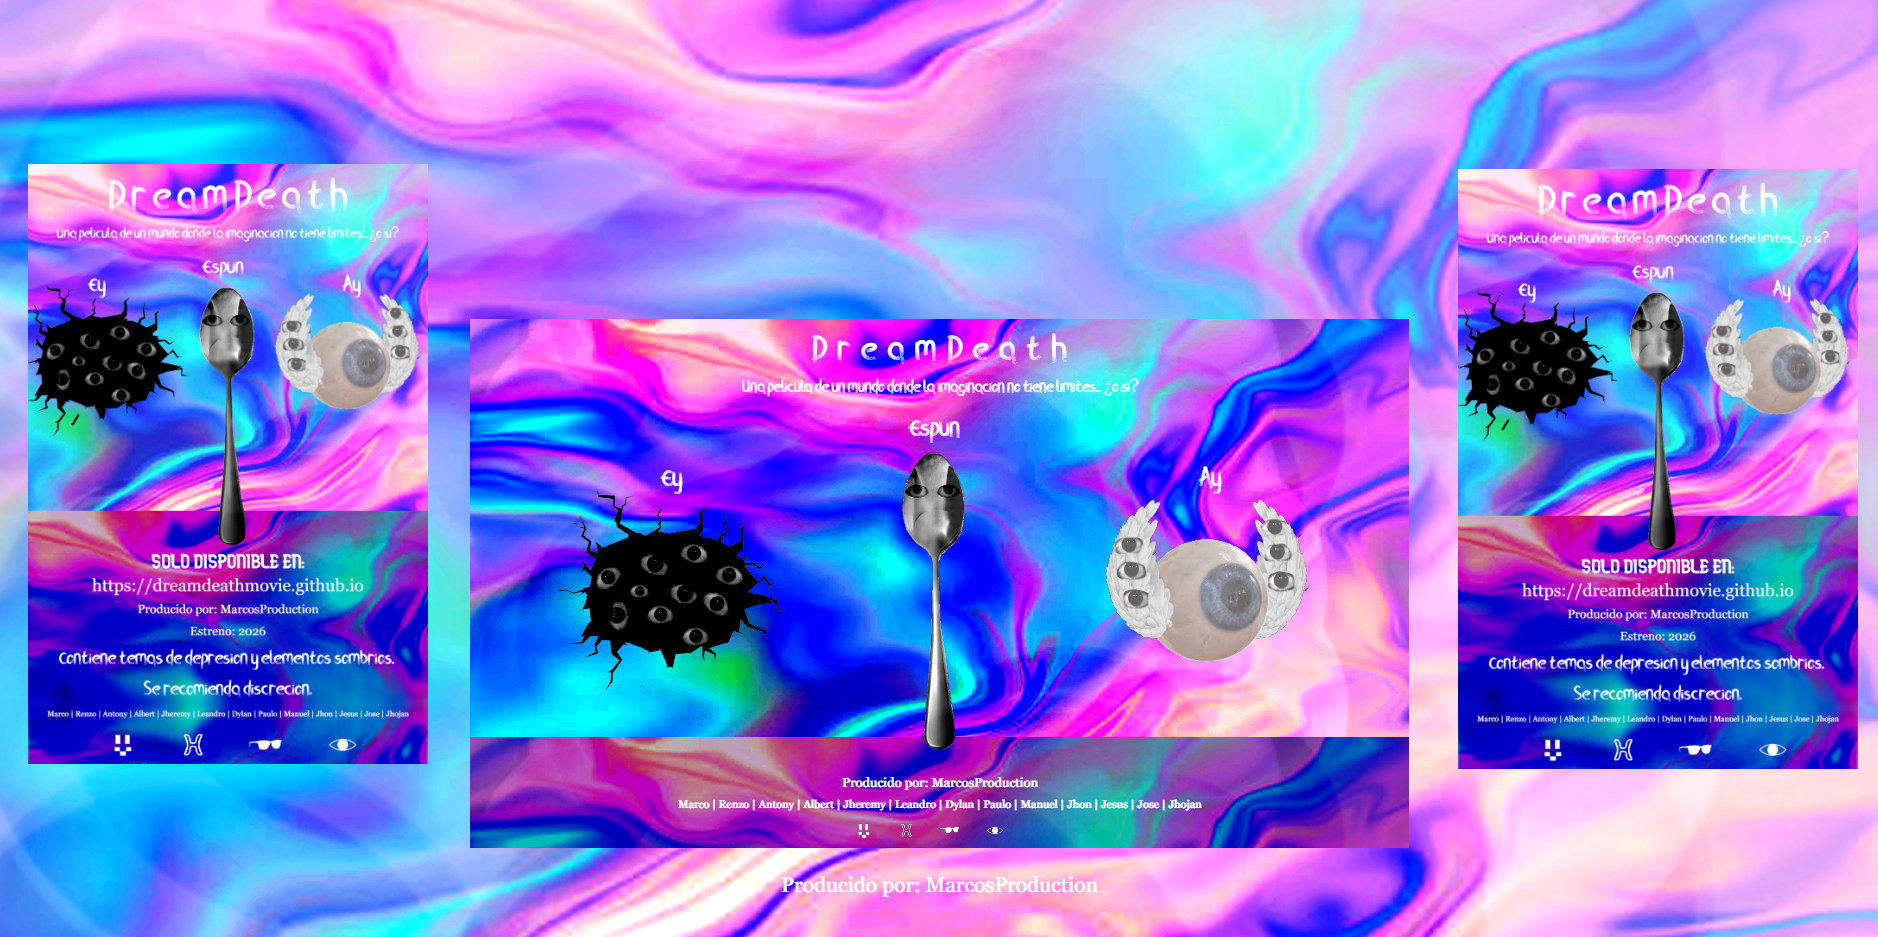
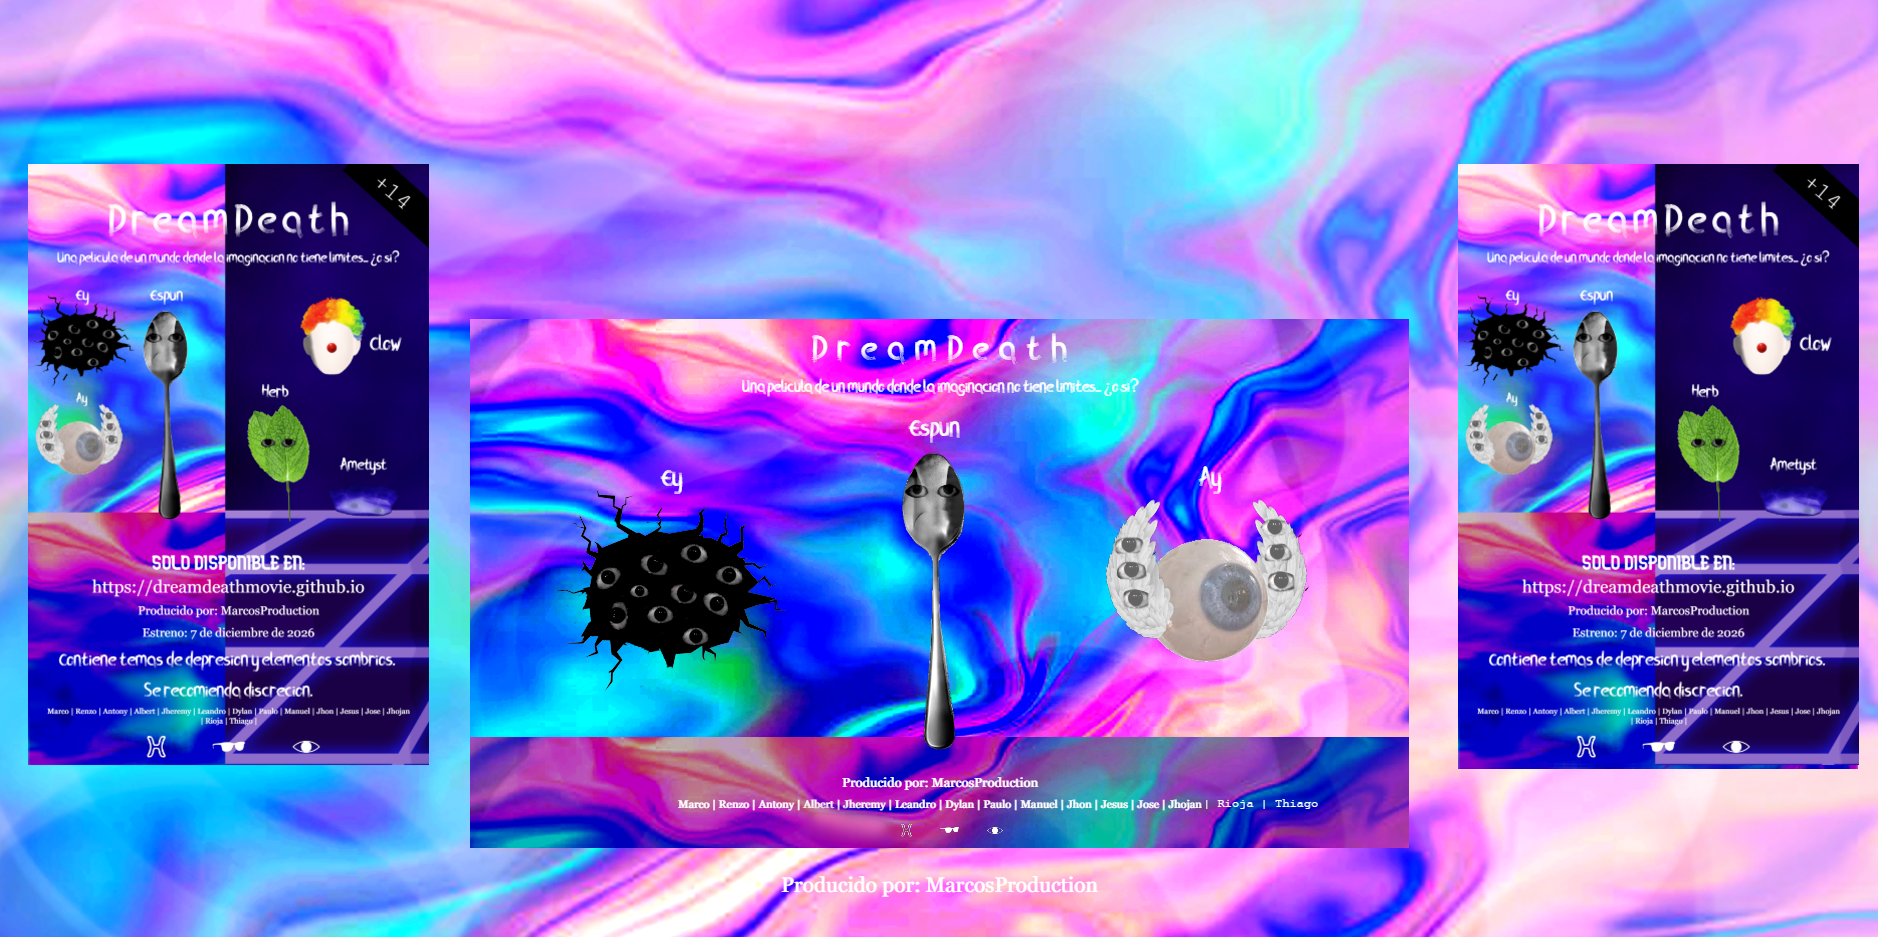
Update

diff --git a/Archivos/info.html b/Archivos/info.html
@@ -77,12 +77,12 @@
     <h1>Información</h1>
     
     <p>Esta película trata acerca de Mark, alguien quien no encuentra sentido a la vida, por lo que escapa terminando en un mundo extraño donde la imaginación no tiene límites... ¿O sí?</p>
-    <p>Advertencia: Esta pelicula contiene temas de depresion, vacio existencial y elementos visuales-sonoros sombrios, se recomienda que la  visualizacion este dirigida hacia personas mayores de 10 años</p>
+    <p>Advertencia: Esta pelicula contiene temas de depresion, vacio existencial y elementos visuales-sonoros sombrios, se recomienda que la  visualizacion este dirigida hacia personas mayores de 14 años</p>
 
     <div class="credits">
         <span>Principal</span>
         <div>Equipo: MarcosProduction</div>
-        <div>Director: Marco</div>
+        <div>Director: Marco E.</div>
         
         <span>Producción</span>
         <div>Guion: Marco</div>
@@ -99,8 +99,14 @@
         <div>AIVA - DREAMCORE</div>
         <div>Graham Kartna - Browser History</div>
         <div>Metaroom - God Race (Templation Stairway)</div>
-        <div>Marco - DreamDeath</div>
-        <div>Marco, Leandro - Deep Soul</div>
+        <div>MarcosSunglasses MS - DreamDeath</div>
+        <div>MarcosSunglasses MS - Deep Soul</div>
+        <div>MarcosSunglasses MS - KidsCore</div>
+        <div>MarcosSunglasses MS - LucidCore</div>
+        <div>MarcosSunglasses MS - VaporCore</div>
+        <div>Fortnite - The End</div>
+        <div>MarcosSunglasses MS - Death</div>
+        <div>Undertale Yellow OST: 124-125</div>
         
         <span>Actores de voz</span>
         <div>Marco - Mark</div>
@@ -116,6 +122,9 @@
         <div>Jesus - Ametyst</div>
         <div>Jose - ΩΩΩ</div>
         <div>Jhojan - Dor</div>
+        <div>Thiago - Clow</div>
+        <div>Rioja - Herb</div>
+        <div>Sin actor - Ye</div>
         
         <span>Inspirado en: Imágenes Dreamcore</span>
         <span>Discord:sekki_m</span>
